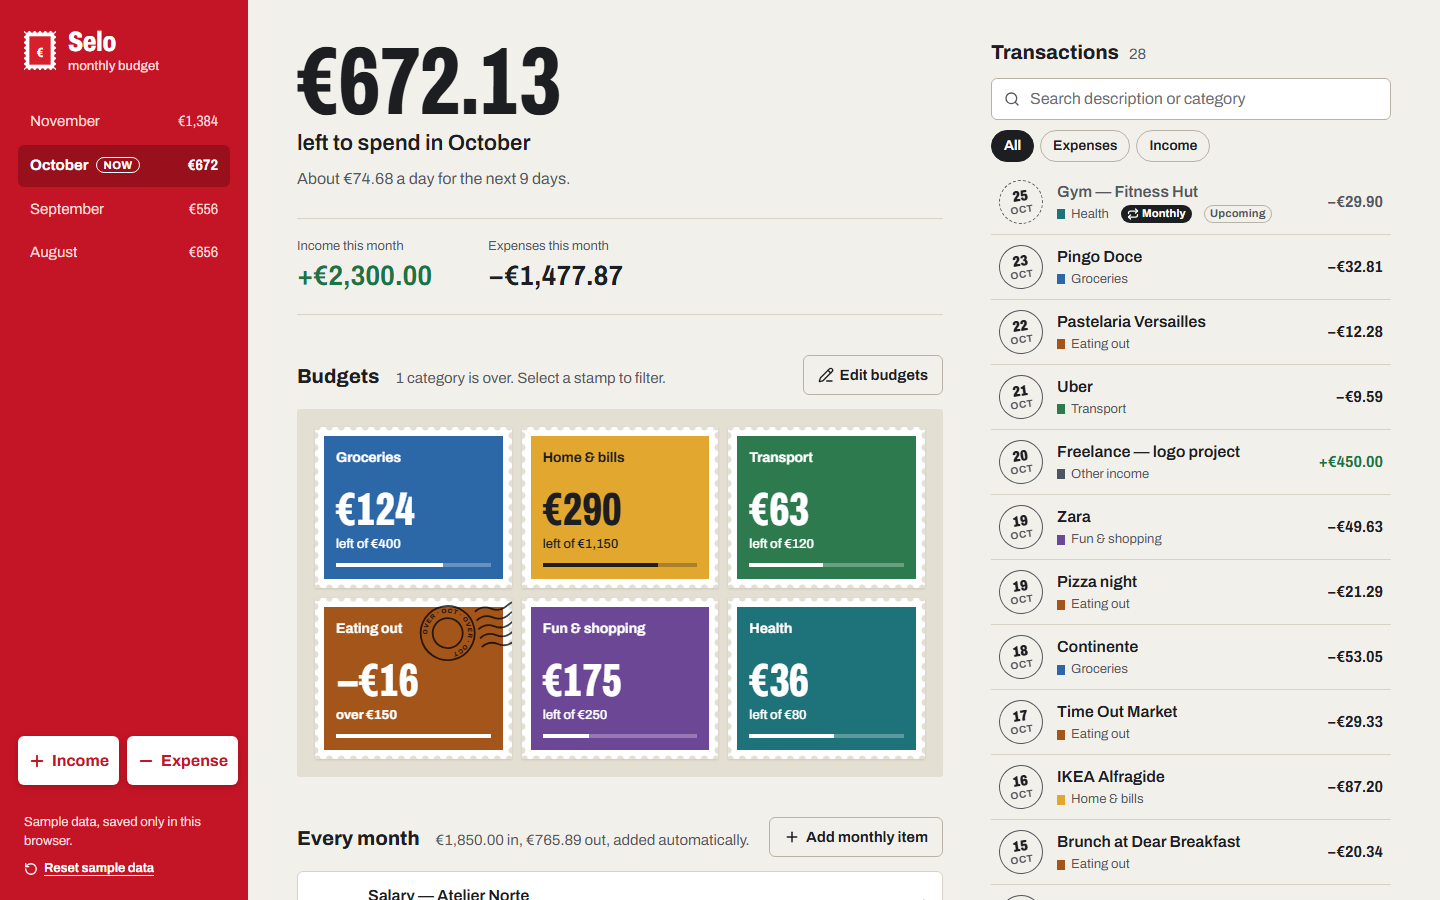
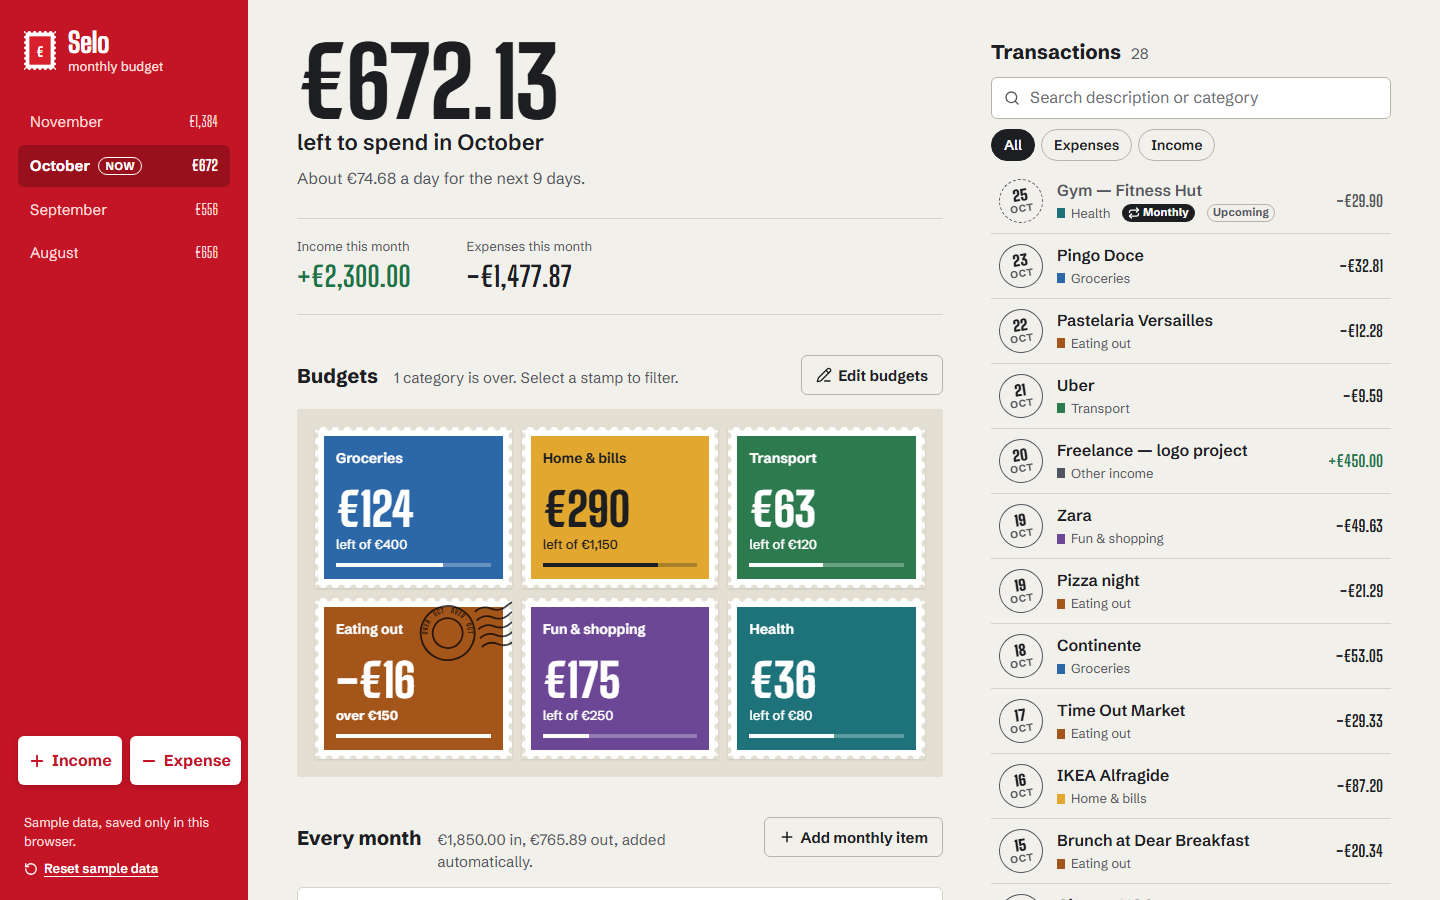
Switch to Big Shoulders Display and Schibsted Grotesk
Replace Archivo with a condensed civic-signage face for figures and a
newspaper grotesk for text. Tabular figures only on numbers, so
punctuation in sentences isn't spaced out.

diff --git a/src/index.css b/src/index.css
@@ -10,8 +10,8 @@
   --line: #d6d2c6;
   --green: #1d7346;
 
-  --font: 'Archivo Variable', 'Archivo', system-ui, sans-serif;
-  --narrow: 64%;
+  --font: 'Schibsted Grotesk Variable', system-ui, sans-serif;
+  --font-display: 'Big Shoulders Display Variable', 'Arial Narrow', sans-serif;
   --ease-out: cubic-bezier(0.16, 1, 0.3, 1);
   --radius: 6px;
 
@@ -21,7 +21,6 @@
   line-height: 1.45;
   color: var(--ink);
   background: var(--ground);
-  font-variant-numeric: tabular-nums;
   -webkit-font-smoothing: antialiased;
   scrollbar-color: #b9b4a6 var(--ground);
 }
@@ -116,7 +115,8 @@ button {
   gap: 12px;
   padding-inline: 6px;
   font-weight: 800;
-  font-stretch: 75%;
+  font-family: var(--font-display);
+  font-variant-numeric: tabular-nums;
   font-size: 1.75rem;
   line-height: 1;
   letter-spacing: -0.01em;
@@ -126,7 +126,7 @@ button {
   margin-top: 4px;
   font-size: 0.8125rem;
   font-weight: 500;
-  font-stretch: 100%;
+  font-family: var(--font);
   letter-spacing: 0;
   color: var(--red-tint);
 }
@@ -176,7 +176,8 @@ button {
   vertical-align: 1px;
 }
 .months-left {
-  font-stretch: 80%;
+  font-family: var(--font-display);
+  font-variant-numeric: tabular-nums;
 }
 .months-left.is-neg {
   color: #fff;
@@ -264,7 +265,8 @@ h1 {
 .figure {
   font-size: clamp(3.75rem, 7.2vw, 6rem);
   font-weight: 800;
-  font-stretch: var(--narrow);
+  font-family: var(--font-display);
+  font-variant-numeric: tabular-nums;
   line-height: 0.88;
   letter-spacing: -0.02em;
 }
@@ -296,7 +298,8 @@ h1.is-over .figure {
 .summary dd {
   font-size: 1.75rem;
   font-weight: 700;
-  font-stretch: 85%;
+  font-family: var(--font-display);
+  font-variant-numeric: tabular-nums;
 }
 .is-in {
   color: var(--green);
@@ -382,7 +385,8 @@ h2 {
   align-self: end;
   font-size: clamp(2.25rem, 3.4vw, 2.9rem);
   font-weight: 800;
-  font-stretch: 62%;
+  font-family: var(--font-display);
+  font-variant-numeric: tabular-nums;
   line-height: 0.9;
   letter-spacing: -0.01em;
 }
@@ -460,7 +464,7 @@ button.stamp-face:hover {
 .postmark-text {
   fill: #17181b;
   stroke: none;
-  font: 800 8.5px var(--font);
+  font: 800 9px var(--font-display);
   letter-spacing: 0.08em;
 }
 .postmark .wave {
@@ -636,7 +640,8 @@ button.stamp-face:hover {
 .money-input span {
   font-size: 1.5rem;
   font-weight: 700;
-  font-stretch: 70%;
+  font-family: var(--font-display);
+  font-variant-numeric: tabular-nums;
   color: var(--ink-2);
 }
 .field .money-input input {
@@ -646,7 +651,8 @@ button.stamp-face:hover {
   outline: none;
   font-size: 2rem;
   font-weight: 800;
-  font-stretch: 70%;
+  font-family: var(--font-display);
+  font-variant-numeric: tabular-nums;
 }
 .field-error {
   color: var(--red);
@@ -831,7 +837,8 @@ button.stamp-face:hover {
 }
 .tx-date b {
   font-size: 0.9375rem;
-  font-stretch: 75%;
+  font-family: var(--font-display);
+  font-variant-numeric: tabular-nums;
   color: var(--ink);
   letter-spacing: 0;
   margin-bottom: 1px;
@@ -861,7 +868,8 @@ button.stamp-face:hover {
 }
 .tx-amt {
   font-weight: 700;
-  font-stretch: 85%;
+  font-family: var(--font-display);
+  font-variant-numeric: tabular-nums;
 }
 .tx-amt.is-in {
   color: var(--green);
@@ -1212,7 +1220,8 @@ button.stamp-face:hover {
 .monthly-day {
   font-size: 1rem;
   font-weight: 800;
-  font-stretch: 75%;
+  font-family: var(--font-display);
+  font-variant-numeric: tabular-nums;
   color: var(--ink-2);
 }
 .monthly-desc {

diff --git a/src/components/Rail.tsx b/src/components/Rail.tsx
@@ -128,7 +128,7 @@ function Logo() {
       </defs>
       <rect width="36" height="44" fill="#fff" mask="url(#logo-perf)" />
       <rect x="6" y="6" width="24" height="32" fill="#D7202C" />
-      <text x="18" y="29" textAnchor="middle" fill="#fff" fontSize="15" fontWeight="800" fontFamily="Archivo Variable, sans-serif">
+      <text x="18" y="29" textAnchor="middle" fill="#fff" fontSize="15" fontWeight="800" fontFamily="Big Shoulders Display Variable, sans-serif">
         €
       </text>
     </svg>

diff --git a/src/main.tsx b/src/main.tsx
@@ -1,6 +1,7 @@
 import { StrictMode } from 'react'
 import { createRoot } from 'react-dom/client'
-import '@fontsource-variable/archivo/wdth.css'
+import '@fontsource-variable/big-shoulders-display'
+import '@fontsource-variable/schibsted-grotesk'
 import './index.css'
 import App from './App.tsx'
 

diff --git a/src/fonts.d.ts b/src/fonts.d.ts
@@ -1,0 +1,2 @@
+// Font packages only inject CSS; they have no JavaScript exports.
+declare module '@fontsource-variable/*'
